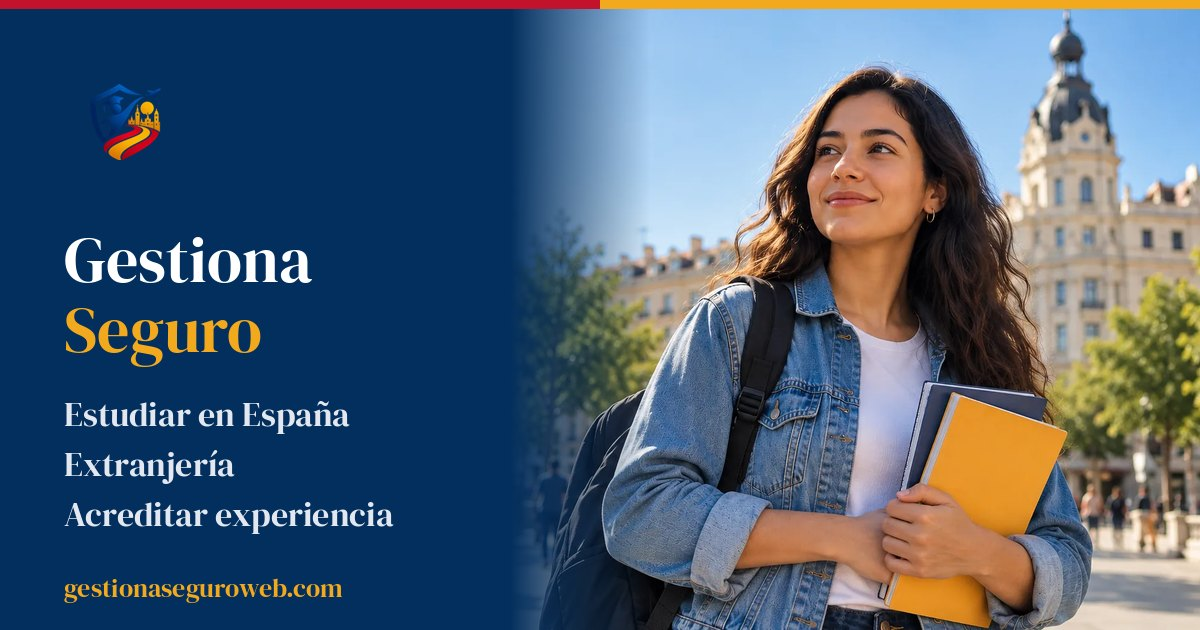
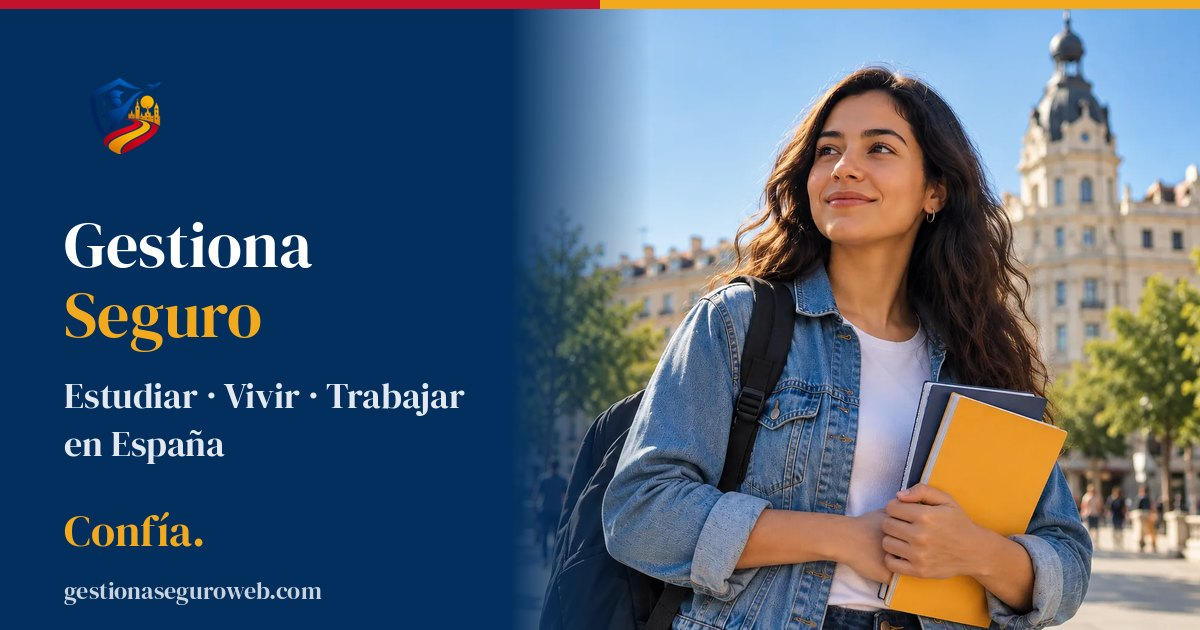
Portada: «Tu vida en España, con una ruta clara» para todos los servicios
- Etiqueta «Estudiar · Vivir · Trabajar en España», nuevo subtítulo con confianza
- «En tu ruta verás»: qué te piden, cuál es tu vía, tu siguiente paso
- Tarjeta «Vivo en España» con etiqueta «Programa especial»
- Tarjeta «Necesito mi certificado digital o Cl@ve»
- Lema «Gestiona Seguro. Confía.» en el pie y en la imagen para compartir
- Título y descripción para Google sin competir con Estudios
- Extranjería recupera «Extranjería: tu residencia, paso a paso»

Claude-Session: https://claude.ai/code/session_01PkPbfuziRXVmVS3JW4eadL

Changed region(s): [[0.0308, 0.3317, 0.4008, 0.8746], [0.0308, 0.9048, 0.3083, 0.9651], [0.0617, 0.1206, 0.1542, 0.2714]]

diff --git a/index.html b/index.html
@@ -19,8 +19,8 @@
 </script>
   <meta charset="UTF-8">
   <meta name="viewport" content="width=device-width, initial-scale=1.0">
-<title>Estudiar en España: estancia por estudios y visado | Gestiona Seguro</title>
-<meta name="description" content="Prepara tu estancia por estudios en España desde Perú, Colombia o cualquier país de Latinoamérica: requisitos, documentos, presupuesto y visado, paso a paso.">
+<title>Gestiona Seguro: estudiar, vivir y trabajar en España</title>
+<meta name="description" content="Acompañamiento para latinoamericanos en España: estancia por estudios, renovación y cambio de permisos, arraigo, PEAC y Cl@ve. Primera consulta gratuita.">
 <link rel="canonical" href="https://gestionaseguroweb.com/">
 
   <style>
@@ -745,14 +745,14 @@
 <link rel="stylesheet" href="css/gs-layout.css">
 <meta property="og:type" content="website">
 <meta property="og:site_name" content="Gestiona Seguro">
-<meta property="og:title" content="Estudiar en España: estancia por estudios y visado | Gestiona Seguro">
-<meta property="og:description" content="Prepara tu estancia por estudios en España desde Perú, Colombia o cualquier país de Latinoamérica: requisitos, documentos, presupuesto y visado, paso a paso.">
+<meta property="og:title" content="Gestiona Seguro: estudiar, vivir y trabajar en España">
+<meta property="og:description" content="Acompañamiento para latinoamericanos en España: estancia por estudios, renovación y cambio de permisos, arraigo, PEAC y Cl@ve. Primera consulta gratuita.">
 <meta property="og:url" content="https://gestionaseguroweb.com/">
 <meta property="og:locale" content="es_ES">
 <meta property="og:image" content="https://gestionaseguroweb.com/og-gestiona-seguro.jpg">
 <meta property="og:image:width" content="1200">
 <meta property="og:image:height" content="630">
-<meta property="og:image:alt" content="Gestiona Seguro: estudiar en España, extranjería y acreditar experiencia">
+<meta property="og:image:alt" content="Gestiona Seguro: estudiar, vivir y trabajar en España. Confía.">
 <meta name="twitter:card" content="summary_large_image">
 </head>
 <body>
@@ -828,9 +828,9 @@
       <img src="hero-estudiante-espana.webp" alt="Estudiante latinoamericana con su mochila y sus libros en una plaza de una ciudad española" width="1536" height="1024" fetchpriority="high">
     </picture>
     <div class="hero-h-in">
-      <p class="hero-h-eyebrow"><i aria-hidden="true"></i>Estancia por estudios en España</p>
-      <h1>Estudia en <mark>España</mark> <span>con una ruta clara</span></h1>
-      <p class="hero-h-sub">Prepara tu estancia por estudios desde tu país: <b>qué te piden, cuánto supone y cómo hacerlo</b>, paso a paso.</p>
+      <p class="hero-h-eyebrow"><i aria-hidden="true"></i>Estudiar · Vivir · Trabajar en España</p>
+      <h1>Tu vida en <mark>España</mark>, <span>con una ruta clara</span></h1>
+      <p class="hero-h-sub">Estudiar, renovar o cambiar tu permiso, acreditar tu experiencia o ponerte al día con la Administración. <b>Con personas de confianza que te explican cada paso.</b></p>
       <div class="hero-h-ctas">
         <a href="#" onclick="gcOpen();return false;" role="button" class="hero-h-btn hero-h-btn--pri">
           <svg viewBox="0 0 24 24" fill="none" stroke="currentColor" stroke-width="2" stroke-linecap="round" stroke-linejoin="round" aria-hidden="true"><circle cx="12" cy="12" r="9"/><path d="m15.6 8.4-2 5.2-5.2 2 2-5.2 5.2-2Z"/></svg>
@@ -848,9 +848,9 @@
     <div class="hero-h-card">
       <p>En tu ruta verás</p>
       <ul>
-        <li><svg viewBox="0 0 24 24" fill="none" stroke="currentColor" stroke-width="2.4" stroke-linecap="round" stroke-linejoin="round" aria-hidden="true"><path d="m5 12.5 4.5 4.5L19 7"/></svg>Qué documentos te piden</li>
-        <li><svg viewBox="0 0 24 24" fill="none" stroke="currentColor" stroke-width="2.4" stroke-linecap="round" stroke-linejoin="round" aria-hidden="true"><path d="m5 12.5 4.5 4.5L19 7"/></svg>Un presupuesto orientativo</li>
-        <li><svg viewBox="0 0 24 24" fill="none" stroke="currentColor" stroke-width="2.4" stroke-linecap="round" stroke-linejoin="round" aria-hidden="true"><path d="m5 12.5 4.5 4.5L19 7"/></svg>Tu plan si aún lo estás preparando</li>
+        <li><svg viewBox="0 0 24 24" fill="none" stroke="currentColor" stroke-width="2.4" stroke-linecap="round" stroke-linejoin="round" aria-hidden="true"><path d="m5 12.5 4.5 4.5L19 7"/></svg>Qué te piden</li>
+        <li><svg viewBox="0 0 24 24" fill="none" stroke="currentColor" stroke-width="2.4" stroke-linecap="round" stroke-linejoin="round" aria-hidden="true"><path d="m5 12.5 4.5 4.5L19 7"/></svg>Cuál es tu vía</li>
+        <li><svg viewBox="0 0 24 24" fill="none" stroke="currentColor" stroke-width="2.4" stroke-linecap="round" stroke-linejoin="round" aria-hidden="true"><path d="m5 12.5 4.5 4.5L19 7"/></svg>Tu siguiente paso</li>
       </ul>
     </div>
   </div>
@@ -880,7 +880,8 @@
   .area__tag{position:absolute;top:16px;right:14px;font-size:.6875rem;font-weight:800;text-transform:uppercase;letter-spacing:.06em;background:var(--amarillo);color:#2a2218;padding:4px 9px;border-radius:50px;}
   @media(max-width:1024px){.areas-sec{margin-top:-40px;}.areas-grid{grid-template-columns:repeat(2,1fr);}}
   @media(max-width:768px){.areas-sec{margin-top:0;padding:18px 14px 48px;}}
-  @media(max-width:640px){.areas-grid{grid-template-columns:1fr;gap:10px;}.area{display:grid;grid-template-columns:50px 1fr;column-gap:14px;padding:18px 16px 16px;}.area__ic{margin:0;grid-row:span 3;}.area p{margin-bottom:8px;}.area__go{justify-content:flex-start;gap:8px;}.area__go i{width:24px;height:24px;}.area--dest{padding-top:44px;}.area__tag{top:14px;left:80px;right:auto;}}
+  @media(max-width:640px){.areas-grid{grid-template-columns:1fr;gap:10px;}.area{display:grid;grid-template-columns:50px 1fr;column-gap:14px;padding:18px 16px 16px;}.area__ic{margin:0;grid-row:span 3;}.area p{margin-bottom:8px;}.area__go{justify-content:flex-start;gap:8px;}.area__go i{width:24px;height:24px;}.area--dest,.area--ext{padding-top:44px;}.area__tag{top:14px;left:80px;right:auto;}}
+  .footer-lema{font-family:'DM Serif Display',serif;font-size:1.25rem;color:var(--amarillo);margin:2px 0 8px;}
 </style>
 <section class="areas-sec" aria-label="¿Cuál es tu situación?">
   <div class="areas-grid">
@@ -892,9 +893,10 @@
       <span class="area__go">Ver cómo hacerlo <i aria-hidden="true">→</i></span>
     </a>
     <a href="extranjeria.html" class="area area--ext">
+      <span class="area__tag">Programa especial</span>
       <span class="area__ic"><svg viewBox="0 0 24 24" fill="none" stroke="currentColor" stroke-width="1.8" stroke-linecap="round" stroke-linejoin="round" aria-hidden="true"><rect x="5" y="3" width="14" height="18" rx="2"/><circle cx="12" cy="10" r="3"/><path d="M9 16h6"/></svg></span>
-      <h2>Ya vivo en España</h2>
-      <p>Renovar, cambiar de autorización o regularizar tu situación.</p>
+      <h2>Vivo en España</h2>
+      <p>Renueva o cambia tu permiso, arraigo y reagrupación familiar.</p>
       <span class="area__go">Ver mis opciones <i aria-hidden="true">→</i></span>
     </a>
     <a href="servicio-peac.html" class="area area--peac">
@@ -905,8 +907,8 @@
     </a>
     <a href="servicios-tramites-electronicos.html" class="area area--tra">
       <span class="area__ic"><svg viewBox="0 0 24 24" fill="none" stroke="currentColor" stroke-width="1.8" stroke-linecap="round" stroke-linejoin="round" aria-hidden="true"><rect x="3" y="4" width="18" height="12" rx="2"/><path d="M8 20h8M12 16v4"/><path d="m9.5 10 2 2 3.5-3.5"/></svg></span>
-      <h2>Tengo que hacer un trámite online</h2>
-      <p>Certificado digital, Cl@ve y Carpeta Ciudadana.</p>
+      <h2>Necesito mi certificado digital o Cl@ve</h2>
+      <p>Y entrar en tu Carpeta Ciudadana sin complicarte.</p>
       <span class="area__go">Ver cómo hacerlo <i aria-hidden="true">→</i></span>
     </a>
   </div>
@@ -1227,6 +1229,7 @@
    <div class="footer-comunidad-inner">
   <div class="footer-comunidad-info">
     <h4>Comunidad Gestiona Seguro</h4>
+    <p class="footer-lema">Gestiona Seguro. Confía.</p>
     <p>Guías, avisos y explicaciones claras para ayudarte con tus trámites en España.</p>
   </div>
 

diff --git a/extranjeria.html b/extranjeria.html
@@ -419,7 +419,7 @@
 <meta property="og:image" content="https://gestionaseguroweb.com/og-gestiona-seguro.jpg">
 <meta property="og:image:width" content="1200">
 <meta property="og:image:height" content="630">
-<meta property="og:image:alt" content="Gestiona Seguro: estudiar en España, extranjería y acreditar experiencia">
+<meta property="og:image:alt" content="Gestiona Seguro: estudiar, vivir y trabajar en España. Confía.">
 <meta name="twitter:card" content="summary_large_image">
 </head>
 <body>
@@ -500,7 +500,7 @@
     </script>
     <div class="hero-h-in">
       <p class="hero-h-eyebrow"><i aria-hidden="true"></i>Extranjería</p>
-      <h1>Tu vida en España, <span>con una ruta clara</span></h1>
+      <h1>Extranjería: <span>tu residencia, paso a paso</span></h1>
       <p class="hero-h-sub"><b>Renovaciones, modificaciones, arraigos, residencias iniciales y reagrupación familiar.</b> Te lo explicamos claro y lo tramitamos contigo.</p>
       <div class="hero-h-ctas">
         <a href="#renovacion-modificacion" class="hero-h-btn hero-h-btn--pri">Renueva tu permiso ↓</a>

diff --git a/guia_renta_2025.html b/guia_renta_2025.html
@@ -172,7 +172,7 @@ body{font-family:var(--ff);background:var(--surface);color:var(--text);-webkit-f
 <meta property="og:image" content="https://gestionaseguroweb.com/og-gestiona-seguro.jpg">
 <meta property="og:image:width" content="1200">
 <meta property="og:image:height" content="630">
-<meta property="og:image:alt" content="Gestiona Seguro: estudiar en España, extranjería y acreditar experiencia">
+<meta property="og:image:alt" content="Gestiona Seguro: estudiar, vivir y trabajar en España. Confía.">
 <meta name="twitter:card" content="summary_large_image">
 </head>
 <body>

diff --git a/guia-regularizacion-2026.html b/guia-regularizacion-2026.html
@@ -456,7 +456,7 @@ j=d.createElement(s),dl=l!='dataLayer'?'&l='+l:'';j.async=true;j.src=
 <meta property="og:image" content="https://gestionaseguroweb.com/og-gestiona-seguro.jpg">
 <meta property="og:image:width" content="1200">
 <meta property="og:image:height" content="630">
-<meta property="og:image:alt" content="Gestiona Seguro: estudiar en España, extranjería y acreditar experiencia">
+<meta property="og:image:alt" content="Gestiona Seguro: estudiar, vivir y trabajar en España. Confía.">
 <meta name="twitter:card" content="summary_large_image">
 </head>
 <body>

diff --git a/mapa-madrid-2026.html b/mapa-madrid-2026.html
@@ -574,7 +574,7 @@ j=d.createElement(s),dl=l!='dataLayer'?'&l='+l:'';j.async=true;j.src=
 <meta property="og:image" content="https://gestionaseguroweb.com/og-gestiona-seguro.jpg">
 <meta property="og:image:width" content="1200">
 <meta property="og:image:height" content="630">
-<meta property="og:image:alt" content="Gestiona Seguro: estudiar en España, extranjería y acreditar experiencia">
+<meta property="og:image:alt" content="Gestiona Seguro: estudiar, vivir y trabajar en España. Confía.">
 <meta name="twitter:card" content="summary_large_image">
 </head>
 <body>

diff --git a/guia-carpeta-ciudadana.html b/guia-carpeta-ciudadana.html
@@ -225,7 +225,7 @@ a { color: inherit; text-decoration: none; }
 <meta property="og:image" content="https://gestionaseguroweb.com/og-gestiona-seguro.jpg">
 <meta property="og:image:width" content="1200">
 <meta property="og:image:height" content="630">
-<meta property="og:image:alt" content="Gestiona Seguro: estudiar en España, extranjería y acreditar experiencia">
+<meta property="og:image:alt" content="Gestiona Seguro: estudiar, vivir y trabajar en España. Confía.">
 <meta name="twitter:card" content="summary_large_image">
 </head>
 <body>

diff --git a/diagnostico_post_presentacion.html b/diagnostico_post_presentacion.html
@@ -1311,7 +1311,7 @@ a:hover { text-decoration: underline; }
 <meta property="og:image" content="https://gestionaseguroweb.com/og-gestiona-seguro.jpg">
 <meta property="og:image:width" content="1200">
 <meta property="og:image:height" content="630">
-<meta property="og:image:alt" content="Gestiona Seguro: estudiar en España, extranjería y acreditar experiencia">
+<meta property="og:image:alt" content="Gestiona Seguro: estudiar, vivir y trabajar en España. Confía.">
 <meta name="twitter:card" content="summary_large_image">
 </head>
 <body>

diff --git a/peac-calculadora.html b/peac-calculadora.html
@@ -424,7 +424,7 @@ body {
 <meta property="og:image" content="https://gestionaseguroweb.com/og-gestiona-seguro.jpg">
 <meta property="og:image:width" content="1200">
 <meta property="og:image:height" content="630">
-<meta property="og:image:alt" content="Gestiona Seguro: estudiar en España, extranjería y acreditar experiencia">
+<meta property="og:image:alt" content="Gestiona Seguro: estudiar, vivir y trabajar en España. Confía.">
 <meta name="twitter:card" content="summary_large_image">
 </head>
 <body>

diff --git a/guia-escanear-gratis.html b/guia-escanear-gratis.html
@@ -1315,7 +1315,7 @@
 <meta property="og:image" content="https://gestionaseguroweb.com/og-gestiona-seguro.jpg">
 <meta property="og:image:width" content="1200">
 <meta property="og:image:height" content="630">
-<meta property="og:image:alt" content="Gestiona Seguro: estudiar en España, extranjería y acreditar experiencia">
+<meta property="og:image:alt" content="Gestiona Seguro: estudiar, vivir y trabajar en España. Confía.">
 <meta name="twitter:card" content="summary_large_image">
 </head>
 <body>

diff --git a/acceso-universidad-bachillerato-extranjero.html b/acceso-universidad-bachillerato-extranjero.html
@@ -124,7 +124,7 @@
 <meta property="og:image" content="https://gestionaseguroweb.com/og-gestiona-seguro.jpg">
 <meta property="og:image:width" content="1200">
 <meta property="og:image:height" content="630">
-<meta property="og:image:alt" content="Gestiona Seguro: estudiar en España, extranjería y acreditar experiencia">
+<meta property="og:image:alt" content="Gestiona Seguro: estudiar, vivir y trabajar en España. Confía.">
 <meta name="twitter:card" content="summary_large_image">
 </head>
 <body>

diff --git a/calculadora_renta_v2.html b/calculadora_renta_v2.html
@@ -296,7 +296,7 @@
 <meta property="og:image" content="https://gestionaseguroweb.com/og-gestiona-seguro.jpg">
 <meta property="og:image:width" content="1200">
 <meta property="og:image:height" content="630">
-<meta property="og:image:alt" content="Gestiona Seguro: estudiar en España, extranjería y acreditar experiencia">
+<meta property="og:image:alt" content="Gestiona Seguro: estudiar, vivir y trabajar en España. Confía.">
 <meta name="twitter:card" content="summary_large_image">
 </head>
 <body>

diff --git a/diagnostico-social-cm-2026.html b/diagnostico-social-cm-2026.html
@@ -312,7 +312,7 @@
 <meta property="og:image" content="https://gestionaseguroweb.com/og-gestiona-seguro.jpg">
 <meta property="og:image:width" content="1200">
 <meta property="og:image:height" content="630">
-<meta property="og:image:alt" content="Gestiona Seguro: estudiar en España, extranjería y acreditar experiencia">
+<meta property="og:image:alt" content="Gestiona Seguro: estudiar, vivir y trabajar en España. Confía.">
 <meta name="twitter:card" content="summary_large_image">
 </head>
 <body>
